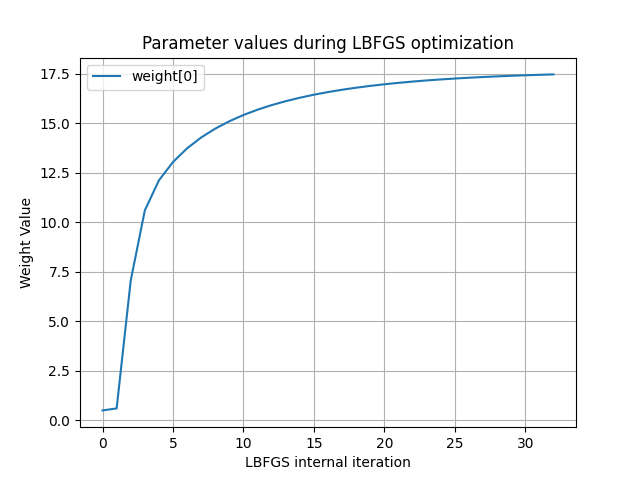
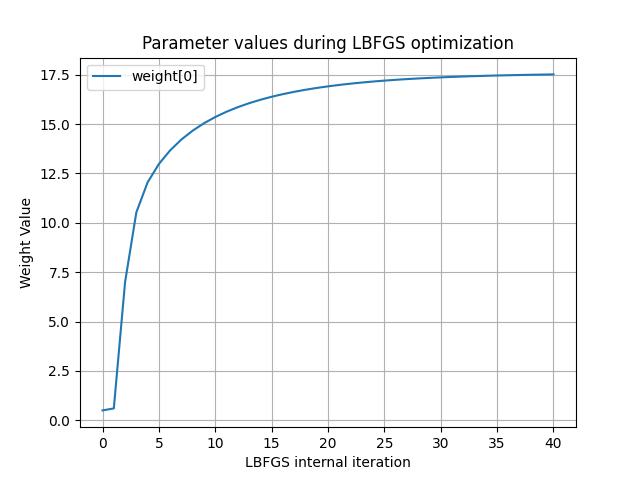
starting other models in pytorch

diff --git a/models/Model.py b/models/Model.py
@@ -37,6 +37,7 @@ torch.cuda.manual_seed(SEED)
 torch.backends.cudnn.deterministic = True
 torch.backends.cudnn.benchmark = False
 
+random_nlls = []
 
 class Model:
     def __init__(self, config):
@@ -94,10 +95,8 @@ class Model:
         self.sequences = self.data.groupby("pid").agg(list)["response"].tolist()
         self.num_sequences = len(self.sequences)
         self.sequence_lengths = [len(s) for s in self.sequences]
-
-
         self.start = 2
-   
+         
     def d2ts(self, some_dict):
         return torch.tensor([some_dict[resp] for resp in self.unique_responses], dtype=torch.float32, device=device)
 
@@ -261,61 +260,90 @@ class Model:
         result = minimize(total_nll, weights_init, bounds=bounds, options={'maxiter': 100})
         return result
 
-    def plot(self):
+    def plot(self, model_name):
         plt.figure()
         plt.hist(self.results["minNLL_list"], bins=30, color='skyblue', edgecolor='black')
-        plt.title(f"Min NLL Distribution for {self.model_class} - {self.model_name}")
+        plt.title(f"Min NLL Distribution for {self.model_class} - {model_name}")
         plt.xlabel("Min NLL")
         plt.ylabel("Frequency")
         plt.grid(True, linestyle='--', alpha=0.6)
         plt.tight_layout()
-        plt.savefig(f"plots/minNLL_{self.model_class}_{self.model_name}.png", dpi=300)
+        plt.savefig(f"../plots/minNLL_{self.model_class}_{model_name}.png", dpi=300)
         plt.close()
 
         for i in range(self.num_weights):
             plt.figure()
-            plt.hist([w[i] for w in self.results["weights_list"]], bins=30, color='skyblue', edgecolor='black')
-            plt.title(f"Weight{i+1} Distribution for {self.model_class} - {self.model_name}")
+            plt.hist(self.results["weights_list"].cpu().numpy()[:, i], bins=30, color='skyblue', edgecolor='black')
+            plt.title(f"Weight{i+1} Distribution for {self.model_class} - {model_name}")
             plt.xlabel(f"Weight{i+1}")
             plt.ylabel("Frequency")
             plt.grid(True, linestyle='--', alpha=0.6)
             plt.tight_layout()
-            plt.savefig(f"plots/weight{i+1}_{self.model_class}_{self.model_name}.png", dpi=300)
+            plt.savefig(f"../plots/weight{i+1}_{self.model_class}_{model_name}.png", dpi=300)
             plt.close()
 
     def fit(self, weights_init=None, bounds=None):
 
         model = nn.DataParallel(self, device_ids=[0, 1, 2]).to('cuda:0')
         if model.module.num_weights > 0:
-            optimizer = torch.optim.LBFGS(model.module.parameters(), lr=0.1, max_iter=1000, tolerance_grad=1e-6, tolerance_change=1e-6)
+            optimizer = torch.optim.LBFGS(model.module.parameters(), lr=0.1, max_iter=1000, tolerance_grad=1e-3, tolerance_change=1e-3)
 
         self.results = {}
 
         if self.config["fitting"] == "individual":
             minNLL_list = []
             weights_list = []
-            for i, sequence in enumerate(self.sequences):
+            
+            for i, seq in enumerate(self.sequences):
                 self.results[f"seq{i+1}"] = {}
-                fitted = self.optimize_individual(self.get_nll, sequence, weights_init, bounds)
-                self.results[f"seq{i+1}"]["minNLL"] = fitted.fun
-                minNLL_list.append(fitted.fun)
-                self.results[f"seq{i+1}"]["weights"] = fitted.x
-                weights_list.append(fitted.x)
 
+                lbfgs_iters = 0
+                loss_history = []
+                param_history = []
+                def closure():
+                    nonlocal lbfgs_iters
+                    lbfgs_iters += 1
+                    optimizer.zero_grad()
+                    loss = model.module.get_nll(seq)
+                    loss.backward()
+                    loss_history.append(loss.item())
+                    param_history.append(model.module.weights.detach().cpu().clone().numpy())
+                    return loss
+
+                if model.module.num_weights > 0:
+                    optimizer.step(closure)
+                    # print(f"LBFGS iterations run: {lbfgs_iters}")
+                    fittedweights = model.module.weights.detach().clone()
+                    weights_list.append(fittedweights)
+                    self.results[f"seq{i+1}"]["weights"] = fittedweights
+                
+                with torch.no_grad():
+                    fittednll = model.module.get_nll(seq).item() 
+                    if model.module.__class__.__name__ == "Random":
+                        random_nlls.append(fittednll)
+                        minNLL_list.append(fittednll)
+                    else:
+                        minNLL_list.append(fittednll - random_nlls[i])
+                    
+                    self.results[f"seq{i+1}"]["minNLL"] = fittednll
+                
             self.results["minNLL_list"] = minNLL_list
             self.results["mean_minNLL"] = np.mean(minNLL_list)
             self.results["std_minNLL"] = np.std(minNLL_list)
 
-            self.results["weights_list"] = weights_list
-            self.results["mean_weights"] = np.mean(weights_list, axis = 0)
-            self.results["std_weights"] = np.std(weights_list, axis = 0)
+            if model.module.num_weights > 0:
+                stacked = torch.stack(weights_list, dim=0)  # shape: [n_samples, n_weights]
+                self.results["weights_list"] = stacked
+                self.results["mean_weights"] = stacked.mean(dim=0).tolist()
+                self.results["std_weights"] = stacked.std(dim=0, unbiased=False).tolist()  # match NumPy's ddof=0 behavior
 
             if self.config["print"]:
                 print("minNLL", self.results["mean_minNLL"], "+-", self.results["std_minNLL"])
-                print("weights", self.results["mean_weights"], "+-", self.results["std_weights"])
+                if model.module.num_weights > 0:
+                    print("weights", self.results["mean_weights"], "+-", self.results["std_weights"])
             
             if self.config["plot"]:
-                self.plot()
+                self.plot(model.module.__class__.__name__)
         
         elif self.config["fitting"] == "group":
             splits = self.split_sequences()     # perform CV
@@ -336,7 +364,6 @@ class Model:
                     param_history.append(model.module.weights.detach().cpu().clone().numpy())
                     return loss
 
-                print("Fitting....")
                 if model.module.num_weights > 0:
                     optimizer.step(closure)
                     print(f"LBFGS iterations run: {lbfgs_iters}")
@@ -355,7 +382,6 @@ class Model:
 
                     param_history = np.stack(param_history)
 
-                    # Plot each parameter separately
                     plt.figure()
                     for i in range(param_history.shape[1]):
                         plt.plot(param_history[:, i], label=f'weight[{i}]')
@@ -369,10 +395,10 @@ class Model:
 
                 with torch.no_grad():
                     print(model.module.__class__.__name__)
-                    try:
-                        print(model.module.allweights)
-                    except:
-                        print(model.module.weights)
+                    # try:
+                    #     print(model.module.allweights)
+                    # except:
+                    #     print(model.module.weights)
                     train_nlls[split_ind] = model.module.get_seqs_nll(train_sequences).item()
                     test_nlls[split_ind] = model.module.get_seqs_nll(test_sequences).item()
                 

diff --git a/models/Ours1_Pytorch.py b/models/Ours1_Pytorch.py
@@ -8,16 +8,18 @@ from Model import *
 sys.path.append(os.path.abspath(os.path.join(os.path.dirname(__file__), "..", "utils")))
 from utils import *
 import torch
-import math
-from itertools import product
 import torch
 import torch.nn as nn
 import torch.nn.functional as F
-from joblib import Parallel, delayed
+device = torch.device("cuda:0" if torch.cuda.is_available() else "cpu")
+print(device)
+print("CUDA available:", torch.cuda.is_available())
+print("GPU count:", torch.cuda.device_count())
+os.environ["CUDA_VISIBLE_DEVICES"] = "0,1,2,3"
 
 class Ours1(Model):
-    def __init__(self, config):
-        super().__init__(config)
+    def __init__(self, parent):
+        self.__dict__.update(parent.__dict__)
         self.model_class = "ours1"
         self.features, self.feature_names = self.get_features()
         self.num_features = len(self.feature_names)
@@ -26,12 +28,14 @@ class Ours1(Model):
         self.all_features = np.array([self.features[r] for r in self.unique_responses])  # shape: [R, D]
         self.resp_to_idx = dict(zip(self.unique_responses, np.arange(len(self.unique_responses))))
         self.num_total_weights = 3
+        self.onlyforgroup = False
 
     def create_models(self):
-        self.models = {
-            subclass.__name__: subclass(self.config)
-            for subclass in Ours1.__subclasses__()
-        }
+        if self.config["fitting"] == "individual":
+            # self.models = {subclass.__name__: subclass(self) for subclass in Ours1.__subclasses__() if not subclass.onlyforgroup}
+            self.models = {subclass.__name__: instance for subclass in Ours1.__subclasses__() if not getattr(instance := subclass(self), 'onlyforgroup', False)}
+        elif self.config["fitting"] == "group":
+            self.models = {subclass.__name__: subclass(self) for subclass in Ours1.__subclasses__()}
     
     def get_features(self):
         featuredict = pk.load(open(f"../files/vf_features.pk", "rb"))
@@ -89,15 +93,15 @@ class Ours1(Model):
         return nll
 
 class Random(Ours1, nn.Module):
-    def __init__(self, config):
-        Ours1.__init__(self, config)
+    def __init__(self, parent):
+        self.__dict__.update(parent.__dict__)
         nn.Module.__init__(self)
         self.num_weights = 0
         self.weight_indices = torch.tensor([], device=device)
 
 class Freq(Ours1, nn.Module):
-    def __init__(self, config):
-        Ours1.__init__(self, config)
+    def __init__(self, parent):
+        self.__dict__.update(parent.__dict__)
         nn.Module.__init__(self)
         self.num_weights = 1
         self.weight_indices = torch.tensor([0], device=device)
@@ -105,8 +109,8 @@ class Freq(Ours1, nn.Module):
         self.weights = nn.Parameter(torch.tensor([0.5] * self.num_weights, device=device))
 
 class HS(Ours1, nn.Module):
-    def __init__(self, config):
-        Ours1.__init__(self, config)
+    def __init__(self, parent):
+        self.__dict__.update(parent.__dict__)
         nn.Module.__init__(self)
         self.num_weights = 1
         self.weight_indices = torch.tensor([1], device=device)
@@ -114,8 +118,8 @@ class HS(Ours1, nn.Module):
         self.weights = nn.Parameter(torch.tensor([0.5] * self.num_weights, device=device))
 
 class Pers(Ours1, nn.Module):
-    def __init__(self, config):
-        Ours1.__init__(self, config)
+    def __init__(self, parent):
+        self.__dict__.update(parent.__dict__)
         nn.Module.__init__(self)
         self.num_weights = 1
         self.weight_indices = torch.tensor([2], device=device)
@@ -123,8 +127,8 @@ class Pers(Ours1, nn.Module):
         self.weights = nn.Parameter(torch.tensor([2.0] * self.num_weights, device=device))
 
 class Freq_HS(Ours1, nn.Module):
-    def __init__(self, config):
-        Ours1.__init__(self, config)
+    def __init__(self, parent):
+        self.__dict__.update(parent.__dict__)
         nn.Module.__init__(self)
         self.num_weights = 2
         self.weight_indices = torch.tensor([0, 1], device=device)
@@ -132,8 +136,8 @@ class Freq_HS(Ours1, nn.Module):
         self.weights = nn.Parameter(torch.tensor([0.5] * self.num_weights, device=device))
 
 class HS_Pers(Ours1, nn.Module):
-    def __init__(self, config):
-        Ours1.__init__(self, config)
+    def __init__(self, parent):
+        self.__dict__.update(parent.__dict__)
         nn.Module.__init__(self)
         self.num_weights = 2
         self.weight_indices = torch.tensor([1, 2], device=device)
@@ -141,8 +145,8 @@ class HS_Pers(Ours1, nn.Module):
         self.weights = nn.Parameter(torch.tensor([0.5] * self.num_weights, device=device))
 
 class Freq_Pers(Ours1, nn.Module):
-    def __init__(self, config):
-        Ours1.__init__(self, config)
+    def __init__(self, parent):
+        self.__dict__.update(parent.__dict__)
         nn.Module.__init__(self)
         self.num_weights = 2
         self.weight_indices = torch.tensor([0, 2], device=device)
@@ -150,8 +154,8 @@ class Freq_Pers(Ours1, nn.Module):
         self.weights = nn.Parameter(torch.tensor([0.5] * self.num_weights, device=device))
 
 class Freq_HS_Pers(Ours1, nn.Module):
-    def __init__(self, config):
-        Ours1.__init__(self, config)
+    def __init__(self, parent):
+        self.__dict__.update(parent.__dict__)
         nn.Module.__init__(self)
         self.num_weights = 3
         self.weight_indices = torch.tensor([0, 1, 2], device=device)
@@ -159,11 +163,12 @@ class Freq_HS_Pers(Ours1, nn.Module):
         self.weights = nn.Parameter(torch.tensor([0.5] * self.num_weights, device=device))
 
 class WeightedHS(Ours1, nn.Module):
-    def __init__(self, config):
-        Ours1.__init__(self, config)
+    def __init__(self, parent):
+        self.__dict__.update(parent.__dict__)
         nn.Module.__init__(self)
         self.num_weights = self.num_features
         self.weights = nn.Parameter(torch.tensor([0.5] * self.num_weights, device=device))
+        self.onlyforgroup = True
 
     def get_nll(self, seq):
         nll = 0
@@ -179,11 +184,12 @@ class WeightedHS(Ours1, nn.Module):
         return nll
     
 class FreqWeightedHS(Ours1, nn.Module):
-    def __init__(self, config):
-        Ours1.__init__(self, config)
+    def __init__(self, parent):
+        self.__dict__.update(parent.__dict__)
         nn.Module.__init__(self)
         self.num_weights = self.num_features + 1
         self.weights = nn.Parameter(torch.tensor([0.5] * self.num_weights, device=device))
+        self.onlyforgroup = True
 
     def get_nll(self, seq):
         nll = 0

diff --git a/models/runner.py b/models/runner.py
@@ -3,34 +3,40 @@ import argparse
 import sys
 import os 
 from Model import Model
-# from Hills import Hills
-# from Heineman import Heineman
+from Ours1_Pytorch import Ours1
+# from Hills_Pytorch import Hills
+# from Heineman_Pytorch import Heineman
 # from Abbott import Abbott
 # from Morales import Morales
-from Ours1_Pytorch import Ours1
 sys.path.append(os.path.abspath(os.path.join(os.path.dirname(__file__), "..", "utils")))
-from utils import *
+from metrics import *
 import time
 
 def run(config):
     models = {}
     fit_results = {}
 
-    # model = Model(config)
-    # human_bleu = calculate_bleu(model.sequences[:model.num_sequences//2], model.sequences[model.num_sequences//2:])
-    # print(human_bleu)
-    # human_bleu_combined = 0.25 * human_bleu["bleu1"] + 0.25 * human_bleu["bleu2"] + 0.25 * human_bleu["bleu3"] + 0.25 * human_bleu["bleu4"]
-    # corrected_human_bleu_combined = (2 * human_bleu_combined) / (1 + human_bleu_combined)
-    # print("Human BLEU:", human_bleu_combined, corrected_human_bleu_combined)
+    modelobj = Model(config)
+    human_bleu = calculate_bleu(modelobj.sequences[:modelobj.num_sequences//2], modelobj.sequences[modelobj.num_sequences//2:])
+    print(human_bleu)
+    human_bleu_combined = 0.25 * human_bleu["bleu1"] + 0.25 * human_bleu["bleu2"] + 0.25 * human_bleu["bleu3"] + 0.25 * human_bleu["bleu4"]
+    corrected_human_bleu_combined = (2 * human_bleu_combined) / (1 + human_bleu_combined)
+    print("Human BLEU:", human_bleu_combined, corrected_human_bleu_combined)
+        
+    if config["ours1"]:
+        ours1 = Ours1(modelobj)
+        ours1.create_models()
+        models["ours1"] = ours1
+        fit_results["ours1"] = {}
     
     # if config["hills"]:
-    #     hills = Hills(config)
+    #     hills = Hills(modelobj)
     #     hills.create_models()
     #     models["hills"] = hills
     #     fit_results["hills"] = {}
-
-    # if config["heineman"]:
-    #     heineman = Heineman(config)
+    
+    # if config["heineman"] and config["dataset"] == "hills":
+    #     heineman = Heineman(modelobj)
     #     heineman.create_models()
     #     models["heineman"] = heineman
     #     fit_results["heineman"] = {}
@@ -46,12 +52,7 @@ def run(config):
     #     morales.create_models()
     #     models["morales"] = morales
     #     fit_results["morales"] = {}
-    
-    if config["ours1"]:
-        ours1 = Ours1(config)
-        ours1.create_models()
-        models["ours1"] = ours1
-        fit_results["ours1"] = {}
+
     
     if config["fit"]:
         print("--------------------------------FITTING MODELS--------------------------------")
